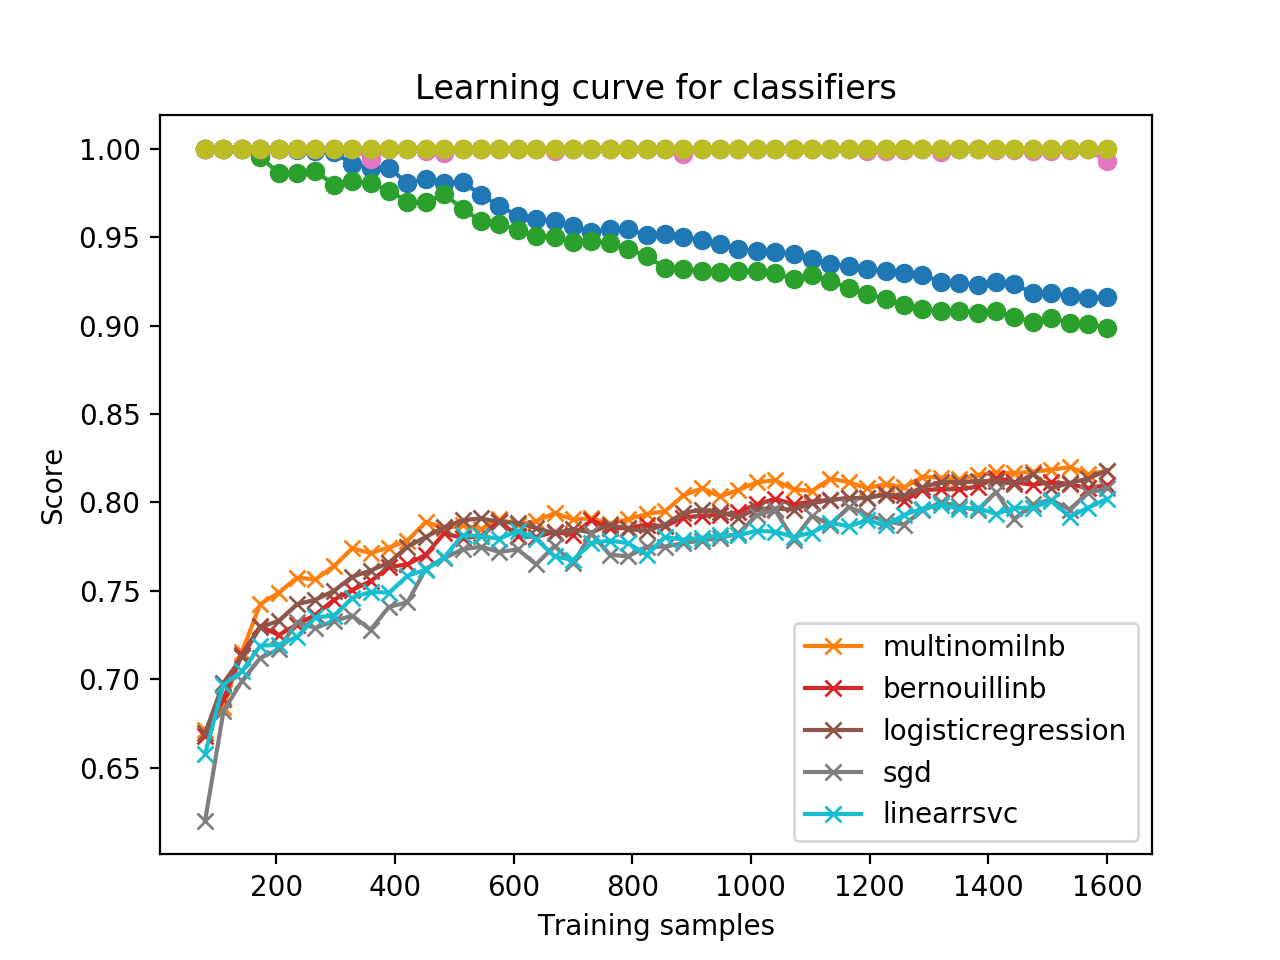
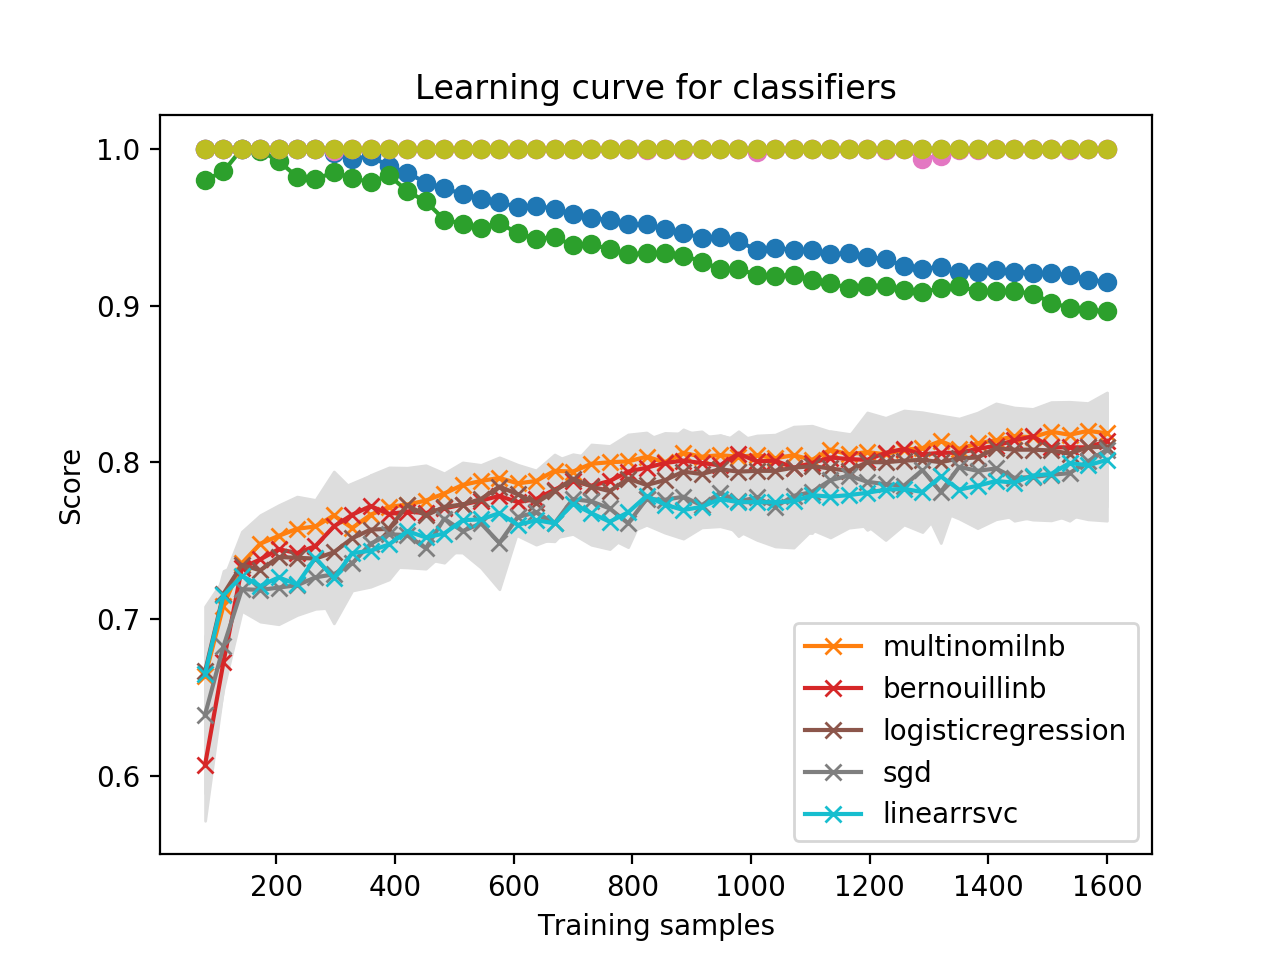
Refactored cmd lines

diff --git a/twitter_ml/classify/build_classifiers.py b/twitter_ml/classify/build_classifiers.py
@@ -21,7 +21,7 @@ with open("logging.yaml", "rt") as f:
 logger = logging.getLogger(__name__)
 
 
-def do_graphs(classifiers: List[Any], X, y):
+def do_graphs(classifiers: List[Tuple[str, Any]], X, y):
     """
     Command method: output graphs.
 
@@ -29,13 +29,13 @@ def do_graphs(classifiers: List[Any], X, y):
     :param X: test data
     :param y: test categories
     """
-    for clf in classifiers:
+    for label, clf in classifiers:
         y_pred = clf.predict(X)
         Utils.plot_confusion_matrix(
             y,
             y_pred,
             classes=unique_labels(y),
-            title="Confusion matrix (non-normalised)",
+            title="Confusion matrix for %s (non-normalised)" % label,
         )
         plt.show()
 
@@ -45,7 +45,7 @@ def do_report(classifiers: List[Tuple[str, Any]], X, y):
     Print key matrics for a set of test data.
 
     :param classifiers: list of label, classifier tuples
-    :param X: a matrix of samples
+    :param X: a matrix of test samples
     :param y: a vector of categories
     """
     logger.info("Samples: len(X, y) = %d, %d" % (len(X), len(y)))
@@ -61,26 +61,28 @@ def do_learning_curve(classifiers: List[Tuple[str, Any]], X, y):
     Plot learning curves for varying sample sizes.
 
     :param classifiers: list of label, classifier tuples
-    :param X: a matrix of samples
+    :param X: a matrix of samples. Note this is both training data and test data.
     :param y: a vector of categories
     """
     fig, ax = plt.subplots()
-    for label, clf in tqdm(classifiers, desc="Learning curves"):
+    for label, clf in tqdm(classifiers, desc="Calculating learning curves"):
         train_sizes = np.linspace(0.05, 1, 50)
         train_sizes, train_scores, test_scores = learning_curve(
             clf, X, y, train_sizes=train_sizes, cv=5
         )
 
-        # average across CV cycle results
+        # calculate the average across CV cycle results
         train_mean = np.mean(train_scores, axis=1)
         # train_std = np.std(train_scores, axis=1)
         test_mean = np.mean(test_scores, axis=1)
-        # test_std = np.std(test_scores, axis=1)
+        test_std = np.std(test_scores, axis=1)
 
-        ax.plot(train_sizes, train_mean, marker="o")
+        ax.plot(train_sizes, train_mean, marker="o")  # no label
         ax.plot(train_sizes, test_mean, marker="x", label=label)
         # plt.fill_between(train_sizes, train_mean - train_std, train_mean + train_std, color="#DDDDDD")
-        # plt.fill_between(train_sizes, test_mean - test_std, test_mean + test_std, color="#DDDDDD")
+        plt.fill_between(
+            train_sizes, test_mean - test_std, test_mean + test_std, color="#DDDDDD"
+        )
 
     ax.set_xlabel("Training samples")
     ax.set_ylabel("Score")
@@ -152,7 +154,7 @@ if __name__ == "__main__":
         sys.exit(0)
 
     if args.graphs:
-        do_graphs([sentiment.voting_classifier], X_test, y_test)
+        do_graphs([("voting", sentiment.voting_classifier)], X_test, y_test)
         sys.exit(0)
 
     if args.learning:

diff --git a/twitter_ml/classify/movie_reviews.py b/twitter_ml/classify/movie_reviews.py
@@ -112,7 +112,9 @@ class MovieReviews:
         documents = [
             (list(self.reviews.words(fileid)), category)
             for category in self.reviews.categories()
-            for fileid in tqdm(self.reviews.fileids(category), desc="Review extraction")
+            for fileid in tqdm(
+                self.reviews.fileids(category), desc="Building movie reviews"
+            )
         ]
         random.shuffle(documents)
 
@@ -123,7 +125,9 @@ class MovieReviews:
         X, y = zip(
             *[
                 (Utils.encode_features(self.features, review), category)
-                for (review, category) in tqdm(documents, desc="Feature encoding")
+                for (review, category) in tqdm(
+                    documents, desc="Calculating feature vectors"
+                )
             ]
         )
 
